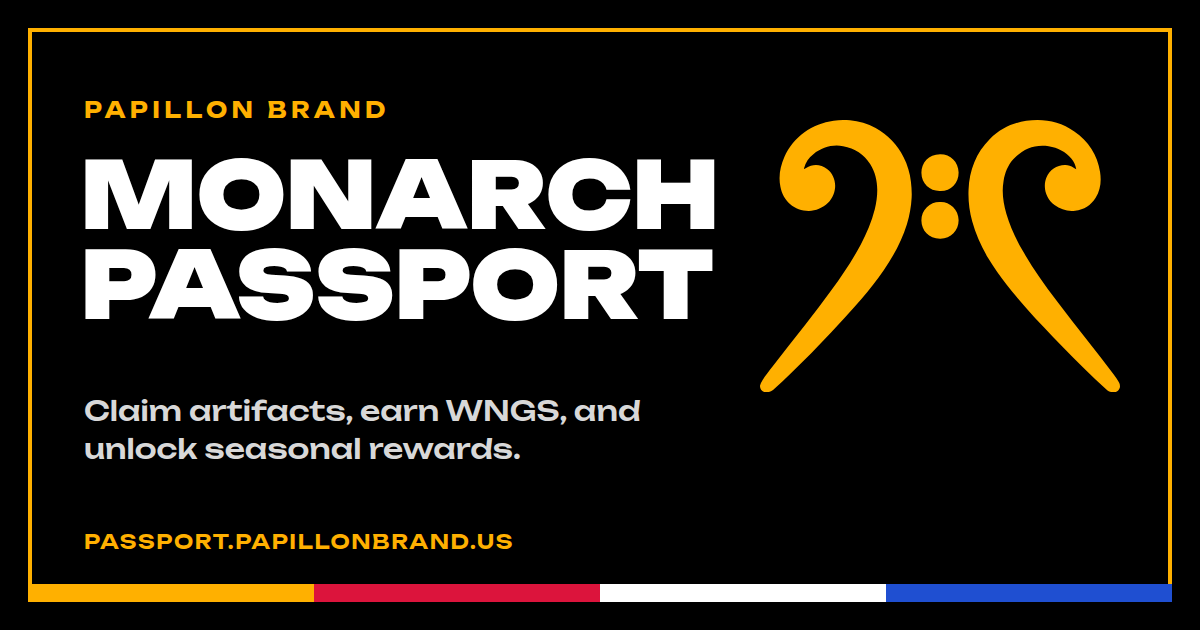
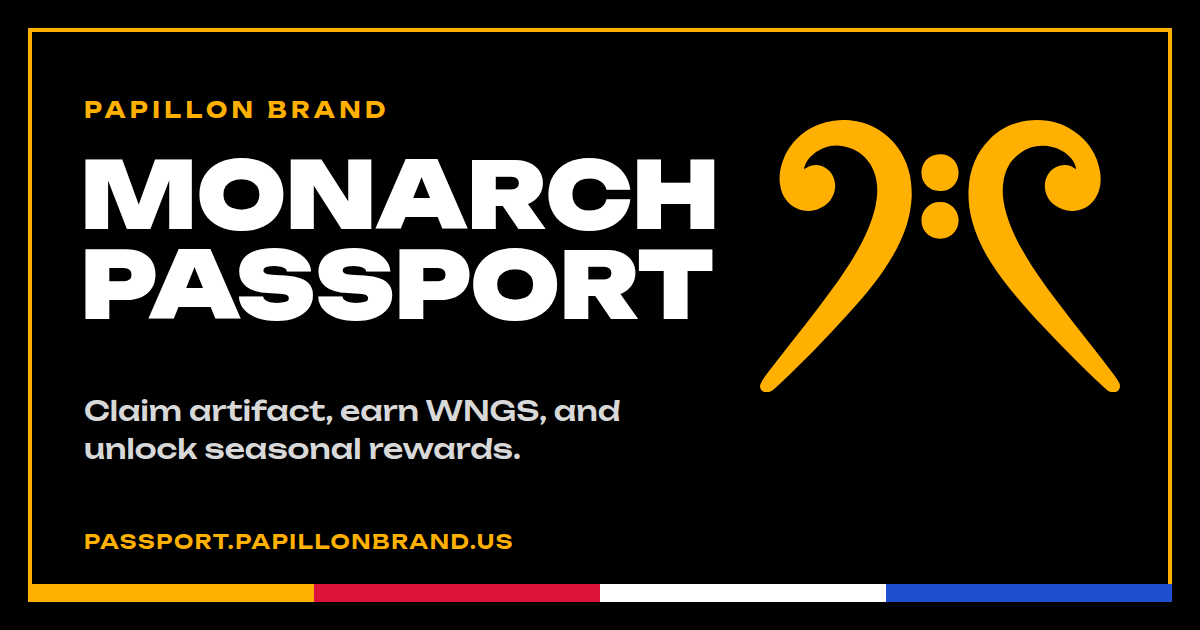
Share image copy: Claim artifact (singular)
Claude-Session: https://claude.ai/code/session_01XnAGmpz8TiFFQfbT65Z66L

Changed region(s): [[0.2775, 0.6333, 0.555, 0.6937]]

diff --git a/index.html b/index.html
@@ -4,24 +4,24 @@
     <meta charset="UTF-8" />
     <link rel="icon" type="image/svg+xml" href="/favicon.svg" />
     <meta name="viewport" content="width=device-width, initial-scale=1.0" />
-    <meta name="description" content="Claim artifacts, earn WNGS, and unlock seasonal rewards with the Monarch Passport from Papillon Brand." />
+    <meta name="description" content="Claim artifact, earn WNGS, and unlock seasonal rewards with the Monarch Passport from Papillon Brand." />
     <title>Monarch Passport</title>
     <link rel="preload" href="/fonts/unbounded-latin.woff2" as="font" type="font/woff2" crossorigin>
     <link rel="stylesheet" href="/fonts/unbounded.css">
     <meta property="og:site_name" content="Papillon Brand" />
     <meta property="og:title" content="Monarch Passport" />
-    <meta property="og:description" content="Claim artifacts, earn WNGS, and unlock seasonal rewards with the Monarch Passport from Papillon Brand." />
+    <meta property="og:description" content="Claim artifact, earn WNGS, and unlock seasonal rewards with the Monarch Passport from Papillon Brand." />
     <meta property="og:type" content="website" />
     <meta property="og:url" content="https://passport.papillonbrand.us/" />
     <meta property="og:image" content="https://passport.papillonbrand.us/og-image.png" />
     <meta property="og:image:width" content="1200" />
     <meta property="og:image:height" content="630" />
     <meta property="og:image:type" content="image/png" />
-    <meta property="og:image:alt" content="Monarch Passport. Claim artifacts, earn WNGS, and unlock seasonal rewards." />
+    <meta property="og:image:alt" content="Monarch Passport. Claim artifact, earn WNGS, and unlock seasonal rewards." />
     <meta name="twitter:card" content="summary_large_image" />
     <meta name="twitter:site" content="@papillonbrandus" />
     <meta name="twitter:title" content="Monarch Passport" />
-    <meta name="twitter:description" content="Claim artifacts, earn WNGS, and unlock seasonal rewards with the Monarch Passport from Papillon Brand." />
+    <meta name="twitter:description" content="Claim artifact, earn WNGS, and unlock seasonal rewards with the Monarch Passport from Papillon Brand." />
     <meta name="twitter:image" content="https://passport.papillonbrand.us/og-image.png" />
   </head>
   <body>

diff --git a/public/tap.html b/public/tap.html
@@ -84,18 +84,18 @@
 </style>
     <meta property="og:site_name" content="Papillon Brand" />
     <meta property="og:title" content="Monarch Passport" />
-    <meta property="og:description" content="Claim artifacts, earn WNGS, and unlock seasonal rewards with the Monarch Passport from Papillon Brand." />
+    <meta property="og:description" content="Claim artifact, earn WNGS, and unlock seasonal rewards with the Monarch Passport from Papillon Brand." />
     <meta property="og:type" content="website" />
     <meta property="og:url" content="https://passport.papillonbrand.us/tap.html" />
     <meta property="og:image" content="https://passport.papillonbrand.us/og-image.png" />
     <meta property="og:image:width" content="1200" />
     <meta property="og:image:height" content="630" />
     <meta property="og:image:type" content="image/png" />
-    <meta property="og:image:alt" content="Monarch Passport. Claim artifacts, earn WNGS, and unlock seasonal rewards." />
+    <meta property="og:image:alt" content="Monarch Passport. Claim artifact, earn WNGS, and unlock seasonal rewards." />
     <meta name="twitter:card" content="summary_large_image" />
     <meta name="twitter:site" content="@papillonbrandus" />
     <meta name="twitter:title" content="Monarch Passport" />
-    <meta name="twitter:description" content="Claim artifacts, earn WNGS, and unlock seasonal rewards with the Monarch Passport from Papillon Brand." />
+    <meta name="twitter:description" content="Claim artifact, earn WNGS, and unlock seasonal rewards with the Monarch Passport from Papillon Brand." />
     <meta name="twitter:image" content="https://passport.papillonbrand.us/og-image.png" />
 </head>
 <body>
